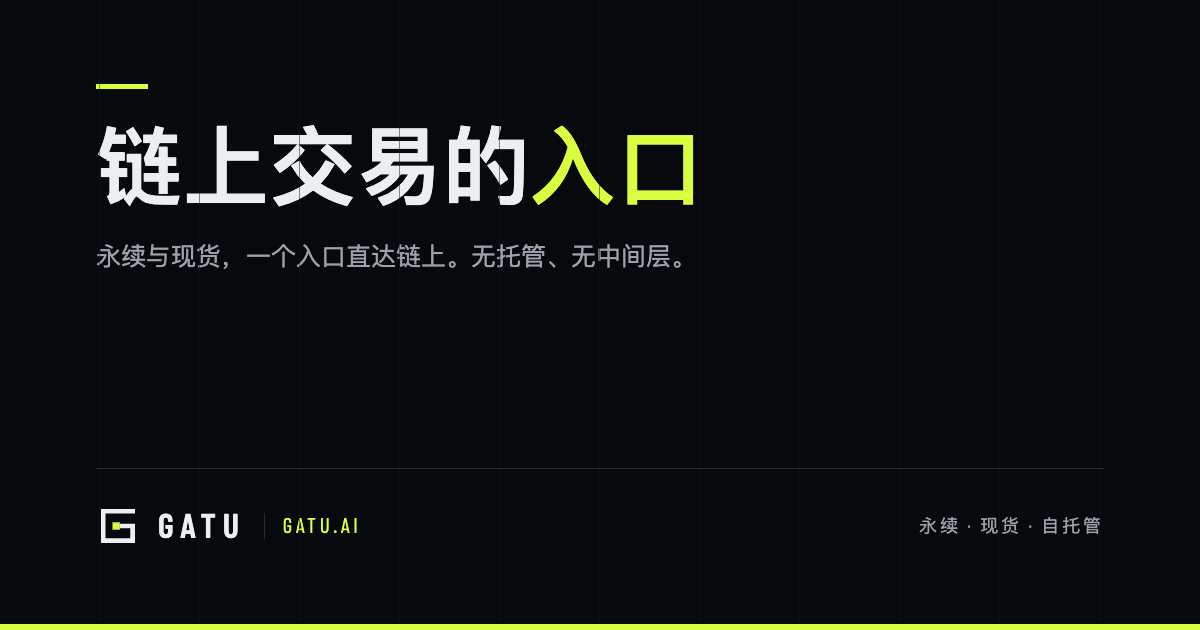
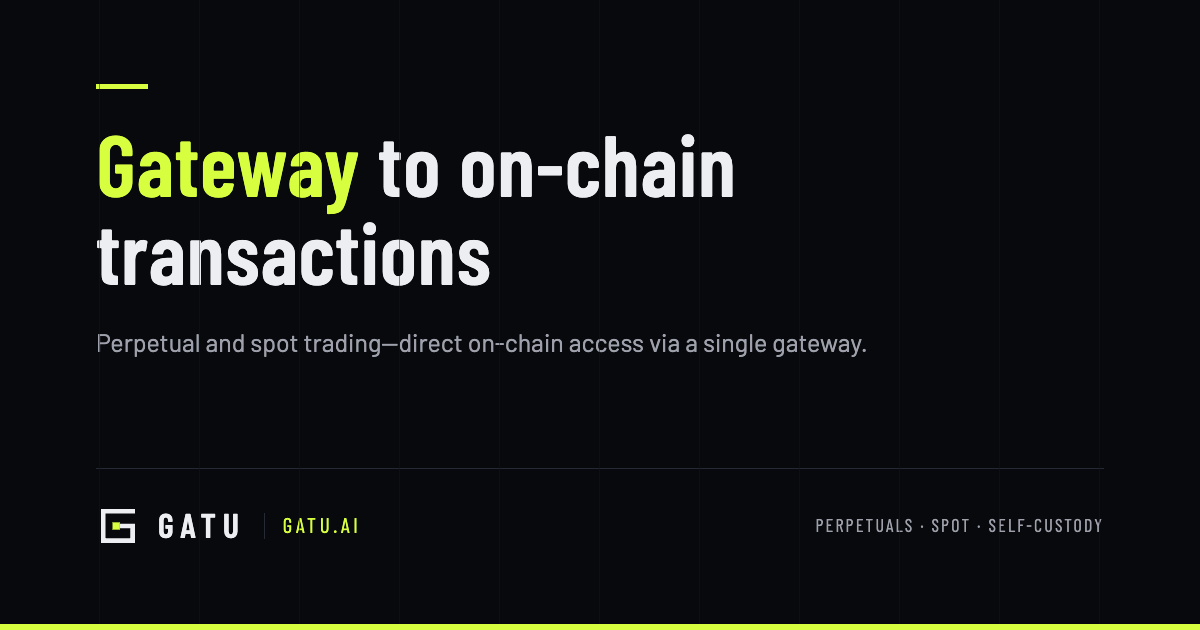
fix: default website OG card to English

Changed region(s): [[0.0617, 0.181, 0.6167, 0.4524], [0.0925, 0.5127, 0.74, 0.573], [0.6783, 0.8143, 0.925, 0.8444]]

diff --git a/apps/website/src/config/seo.ts b/apps/website/src/config/seo.ts
@@ -10,7 +10,7 @@ export const SEO_DEFAULTS = {
 	ogImage: "/og-website-1200x630.png",
 	ogImageWidth: 1200,
 	ogImageHeight: 630,
-	ogImageAlt: "GATU：链上交易的入口，永续与现货直达链上",
+	ogImageAlt: "GATU — Gateway to on-chain transactions",
 	logoImage: "/gatu-logo-1024.png",
 } as const;
 
